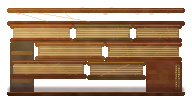
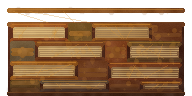
N7A1 · Möbel Runde 3: zwei Blätter, die im Spiel als Ding lesbar sind
Ein Kriterium fehlte in beiden bisherigen Orders — meins, nicht Codex': diese
Objekte werden im Spiel als 32×24 bzw. 48×24 Bildpunkte gezeichnet, mit einem
grauen Multiply 0xa3a3a3 darüber. Bei DIESER Größe war die Lesebank ein hohler
Rahmen (Deckung 48 % der Bounding-Box, Wert-SD 9,8 — man sah den Hintergrund
durch ein Ding, auf dem das Kind steht) und das Regal hatte durchsichtige Lücken
(67 %). Zum Vergleich das abgenommene `terrain_night_shelf_p2`: 86 % / SD 19,3.

Neu gemessen (dieselbe Rechnung: verkleinert PLUS Multiply, Alpha ≥128 zählt):
Bank 77,2 % / SD 17,0 · Regal 76,4 % / SD 20,5 — beide innerhalb des Bandes, das
die angenommene p2-Familie aufspannt (Folio 68 % · Bündel 76 % · Regal 86 %).
Codex' Selbstauskunft nennt 86,1 % und 87,3 %; das ist ein zweites Lineal (andere
Alpha-Schwelle). Berichtet wird meine Messung, mit ihrem Verfahren.

Die übrigen vier Möbel-Blätter sind unverändert aus Runde 2. `deck` der Bank neu
am Blatt gemessen (10/96 → 8/96). Tor je Blatt: Reichweite 100 % · Kipp 0,0°.

diff --git a/packages/game-paint/src/composition.ts b/packages/game-paint/src/composition.ts
@@ -637,7 +637,7 @@ const PLAT_OBJECTS: Record<string, MassKit["platObjects"]> = {
   // nach dem Verfahren dieses Kommentars: erste Zeile, die 90 % der maximalen
   // opaken Spannweite erreicht, geteilt durch die Blatthöhe.
   p1: [
-    { stem: "terrain_reading_bench_p1", pxPerCell: 64, cells: 2, deck: 10 / 96 },
+    { stem: "terrain_reading_bench_p1", pxPerCell: 64, cells: 2, deck: 8 / 96 },
     { stem: "terrain_book_bundle_p1", pxPerCell: 64, cells: 2, deck: 8 / 120 },
     { stem: "terrain_book_shelf_p1", pxPerCell: 64, cells: 3, deck: 8 / 96 },
     { stem: "terrain_book_shelf_p1_alt", pxPerCell: 64, cells: 3, deck: 8 / 112 },
